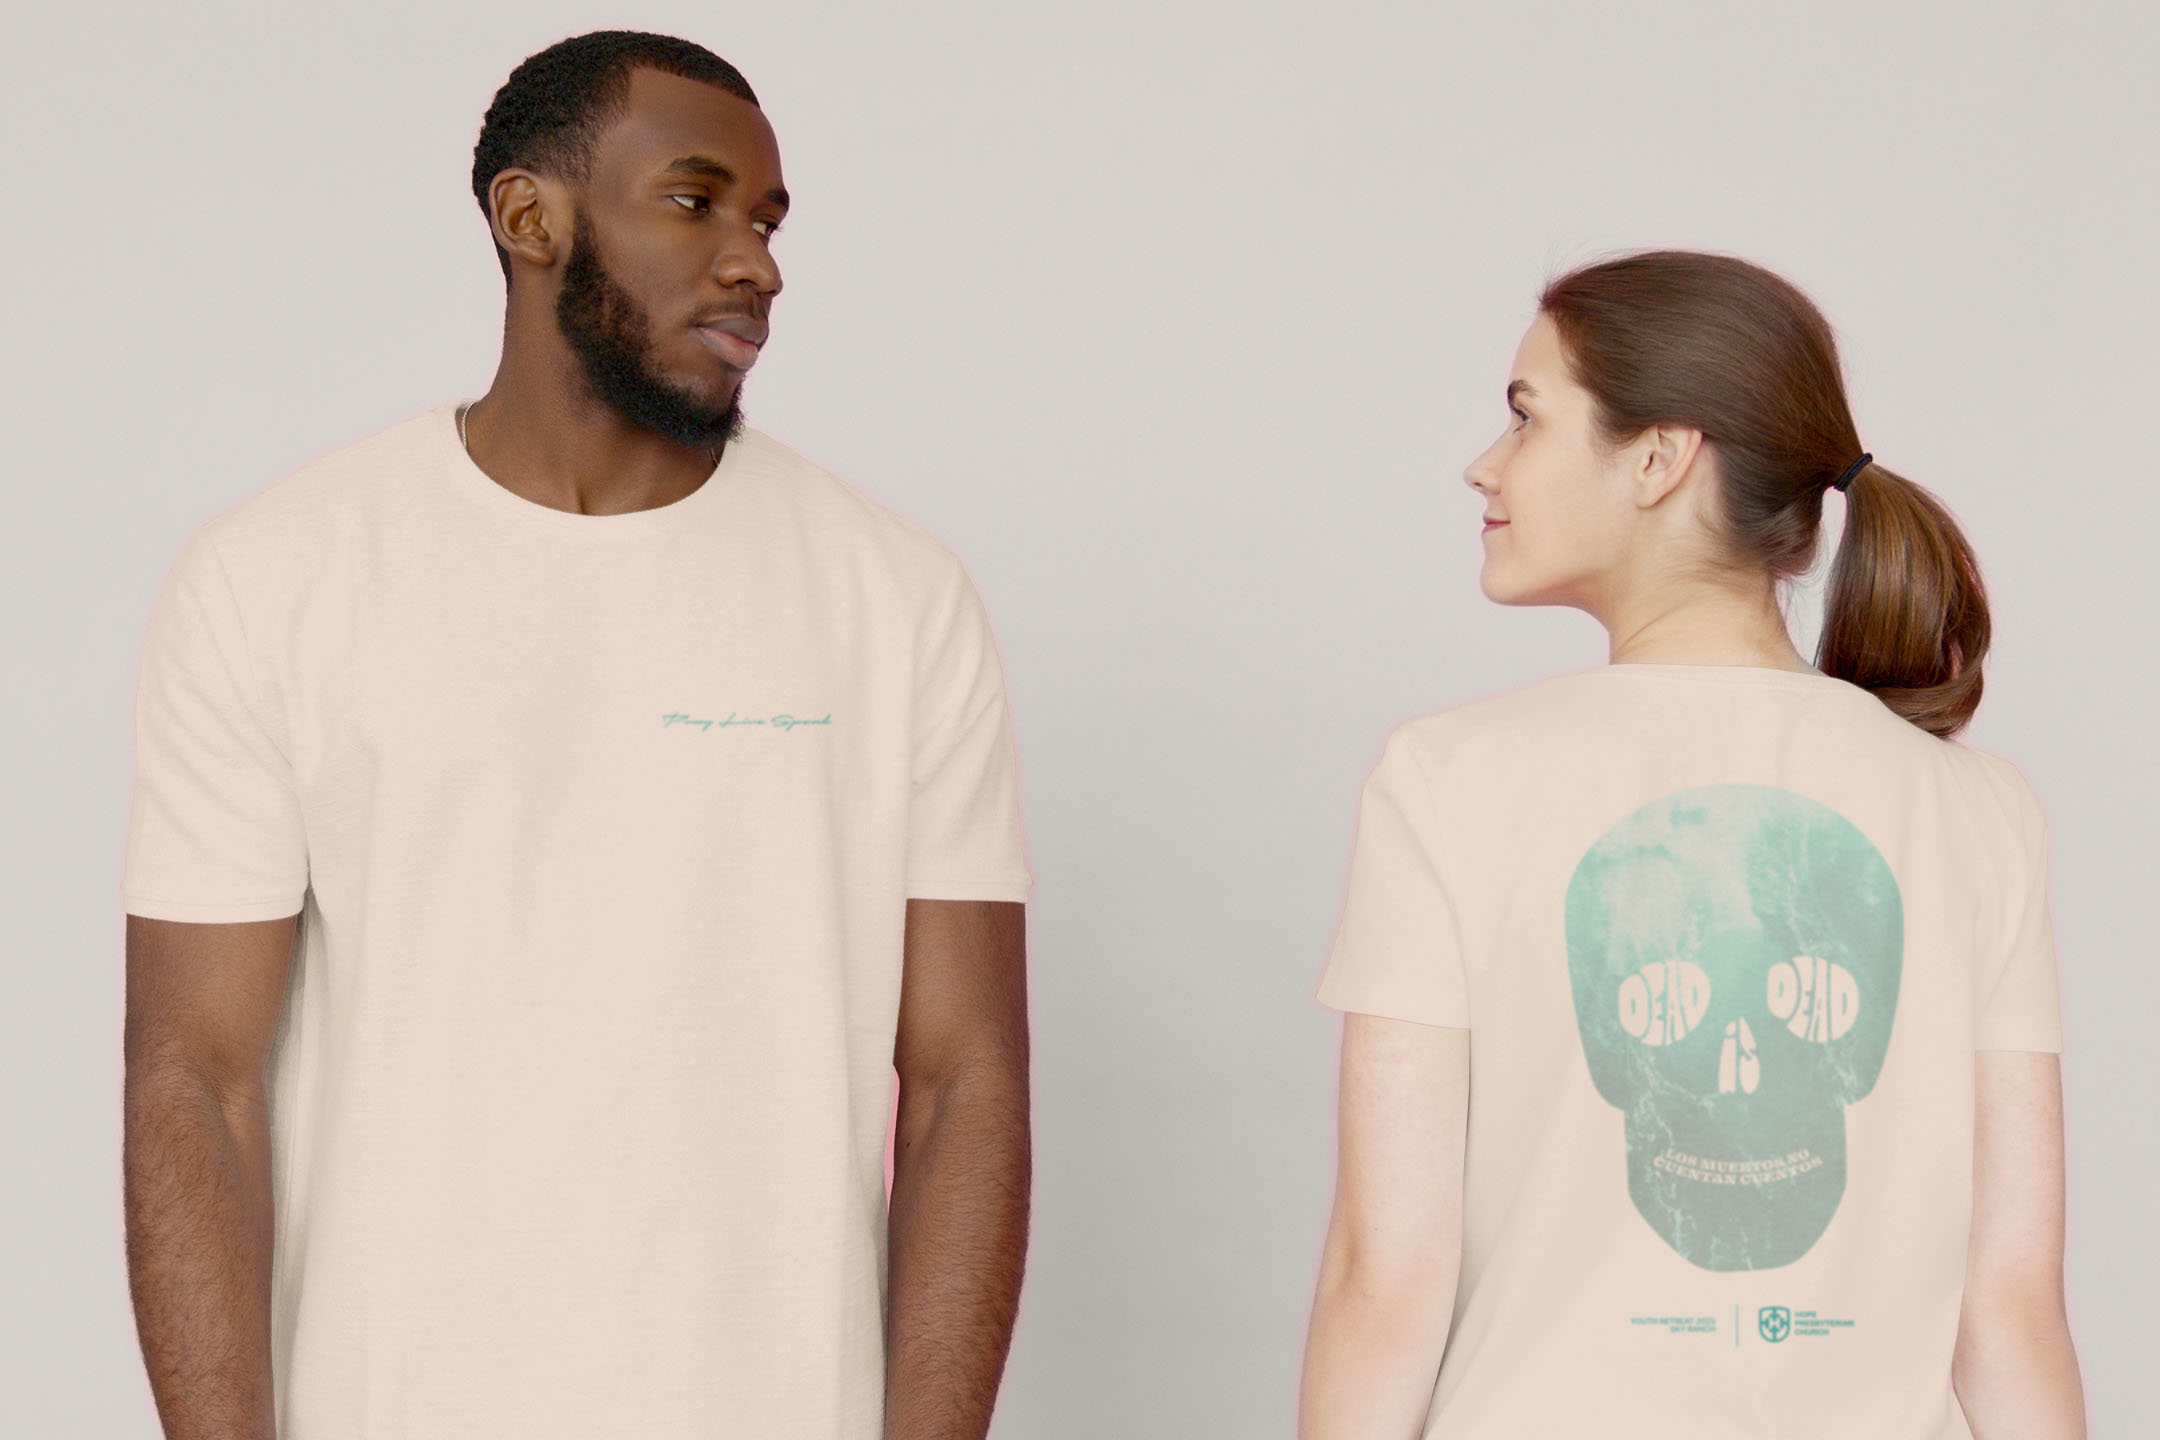
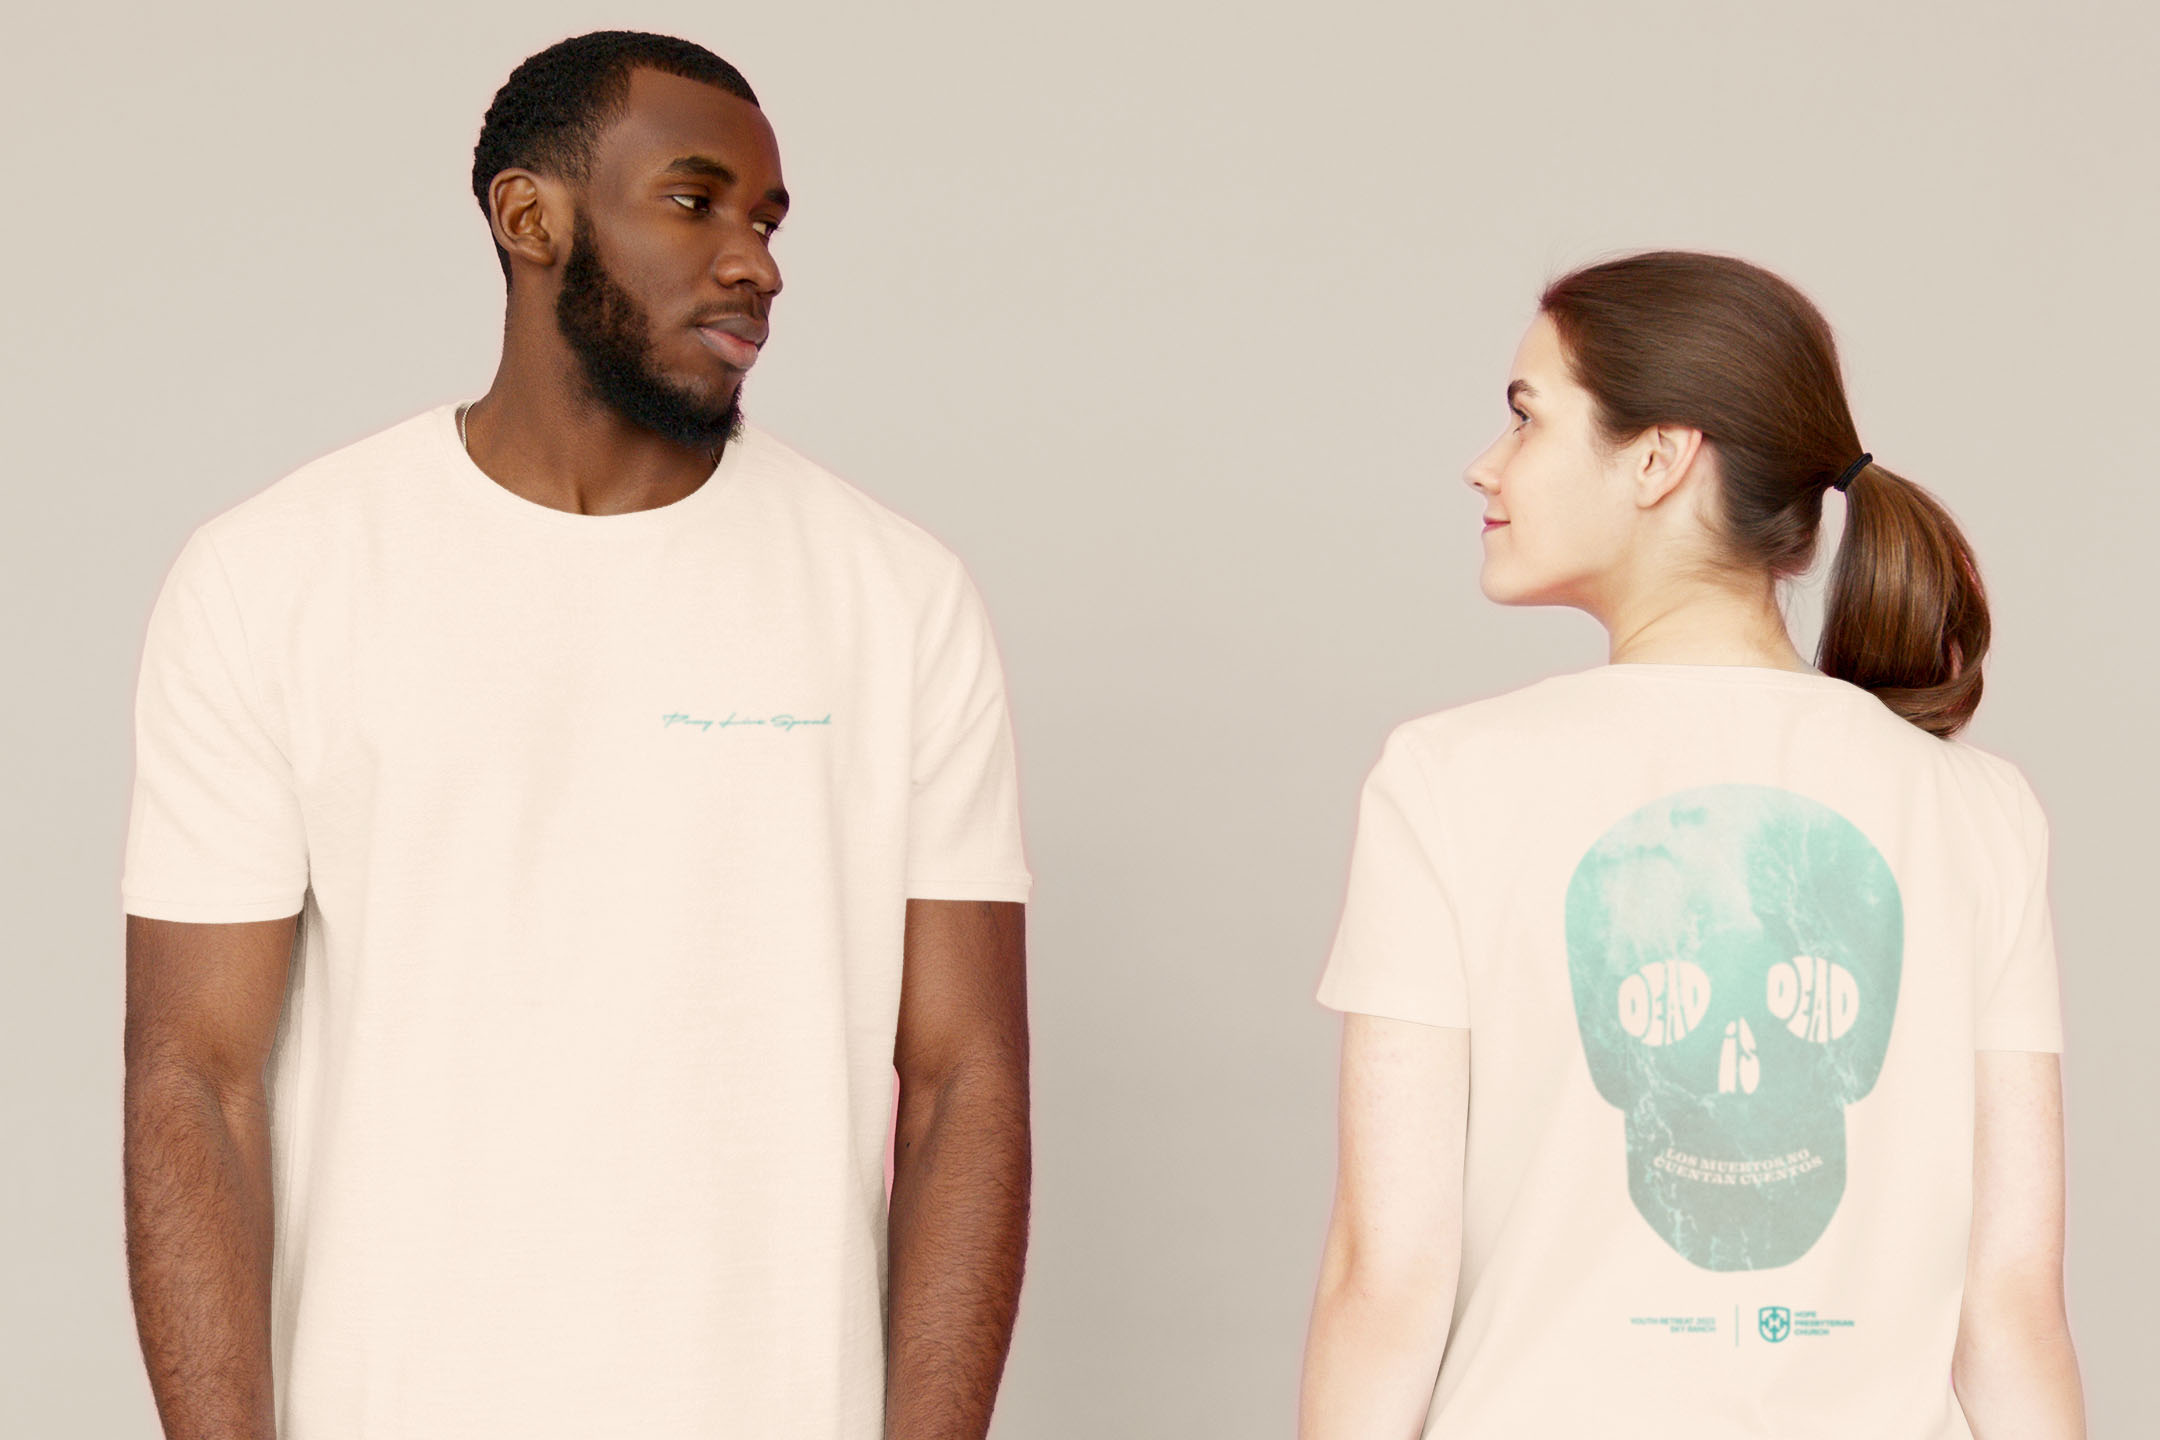
publish youth retreat t-shirts case study

Changed region(s): [[0.8375, 0.6875, 0.8685, 0.7188], [0.8065, 0.9062, 0.8375, 0.9375]]

diff --git a/_src/design/hope youth retreat t-shirts.md b/_src/design/hope youth retreat t-shirts.md
@@ -1,0 +1,26 @@
+---
+title: "Dead is Dead: T-Shirts and theme for a youth retreat"
+entity: Hope Presbyterian Church of Bartlesville
+image: /img/hope-youth-retreat/cropped.jpg
+order: 15
+tags:
+  - T-Shirts
+  - Identity
+  - Event
+links:
+  Learn about Hope: //hopepresbyterian.church
+---
+
+Even though we are “dry bones” (Ezekiel 37), the unregenerate man tries to
+appear spiritually alive in order to acheive the glory of God and earn his
+grace.
+
+The skull is a universal symbol of death, which is smiling to show how we
+delight in our folly and sin apart from God. The texture of ocean waves
+represents how our spiritual bankruptcy has left us dead at the bottom of the
+ocean, beneath the waves, with no desire to be made alive or rescued.
+
+![A flat view of the t-shirt, showing the back of the design](/img/hope-youth-retreat/back.jpg)
+![The t-shirt for this youth retreat, suspended on a wooden hanger against a teal background](/img/hope-youth-retreat/front.jpg)
+
+![The group of youth who attended the retreat](/img/hope-youth-retreat/group.jpg)

diff --git a/_src/design/hope billboards.md b/_src/design/hope billboards.md
@@ -1,5 +1,5 @@
 ---
-title: Billboards of Hope
+title: Billboards for a local church
 entity: Hope Presbyterian Church of Bartlesville
 image: /img/hope-billboards/nailing-it.jpg
 order: 9
